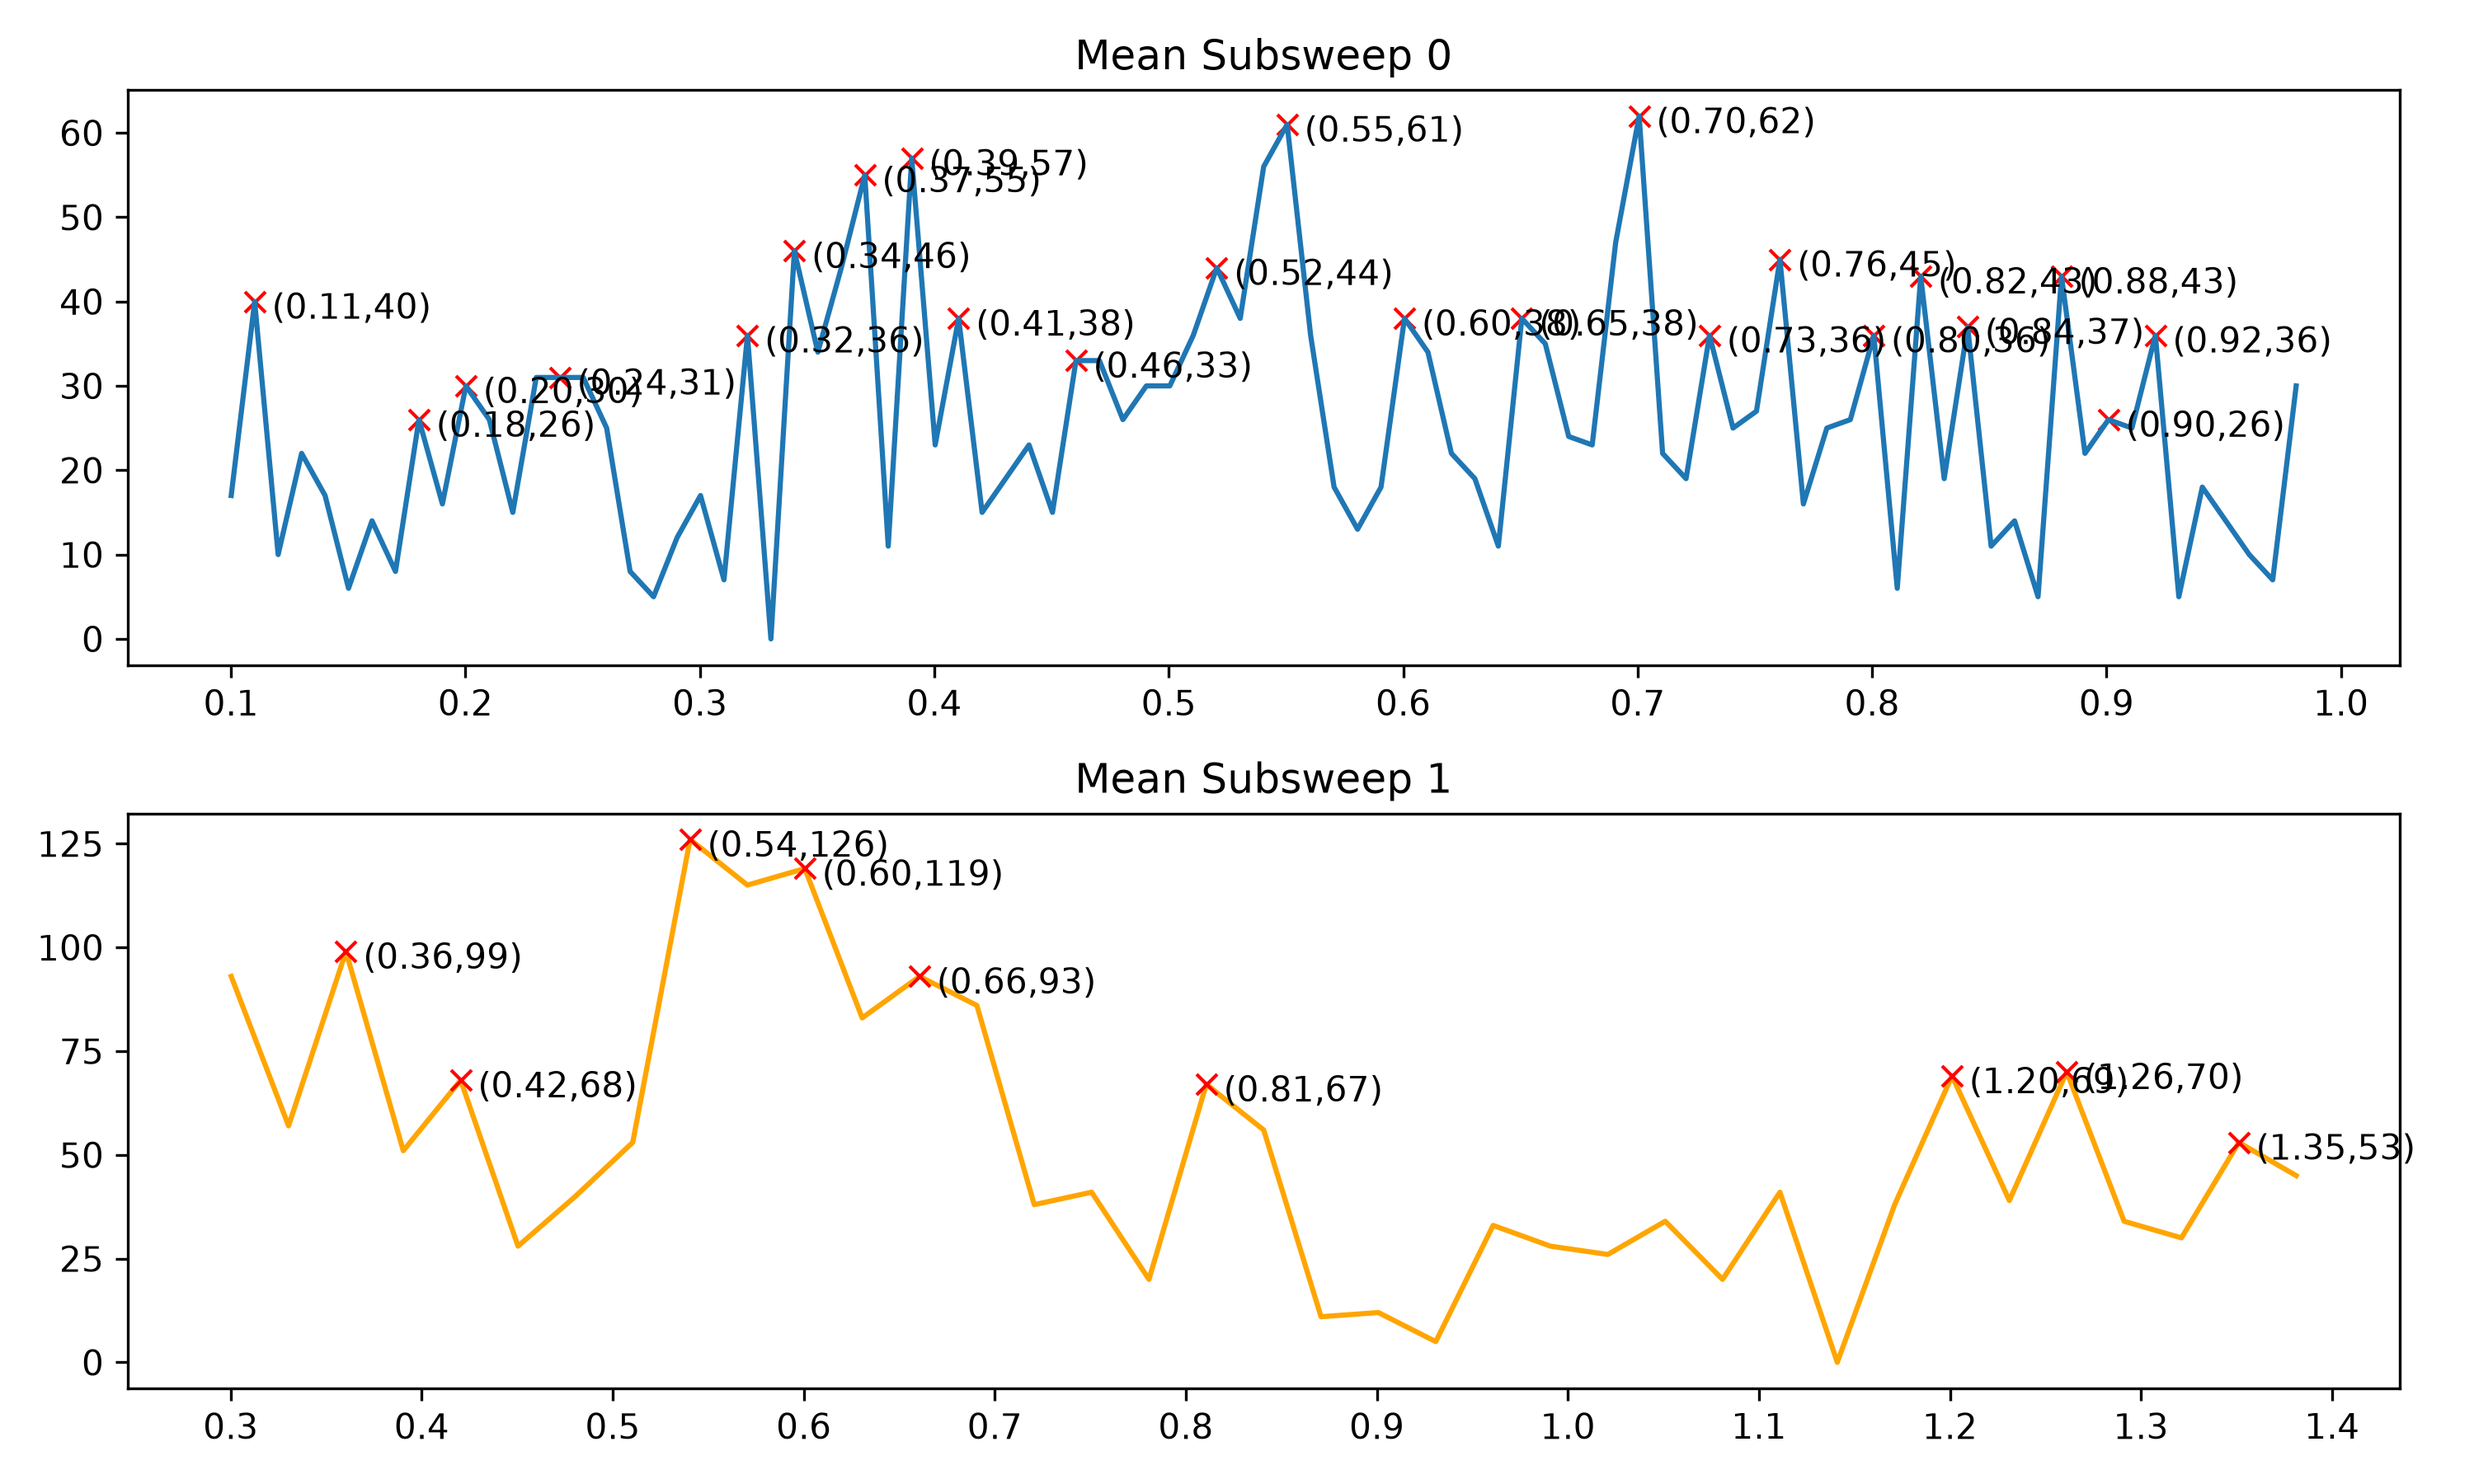
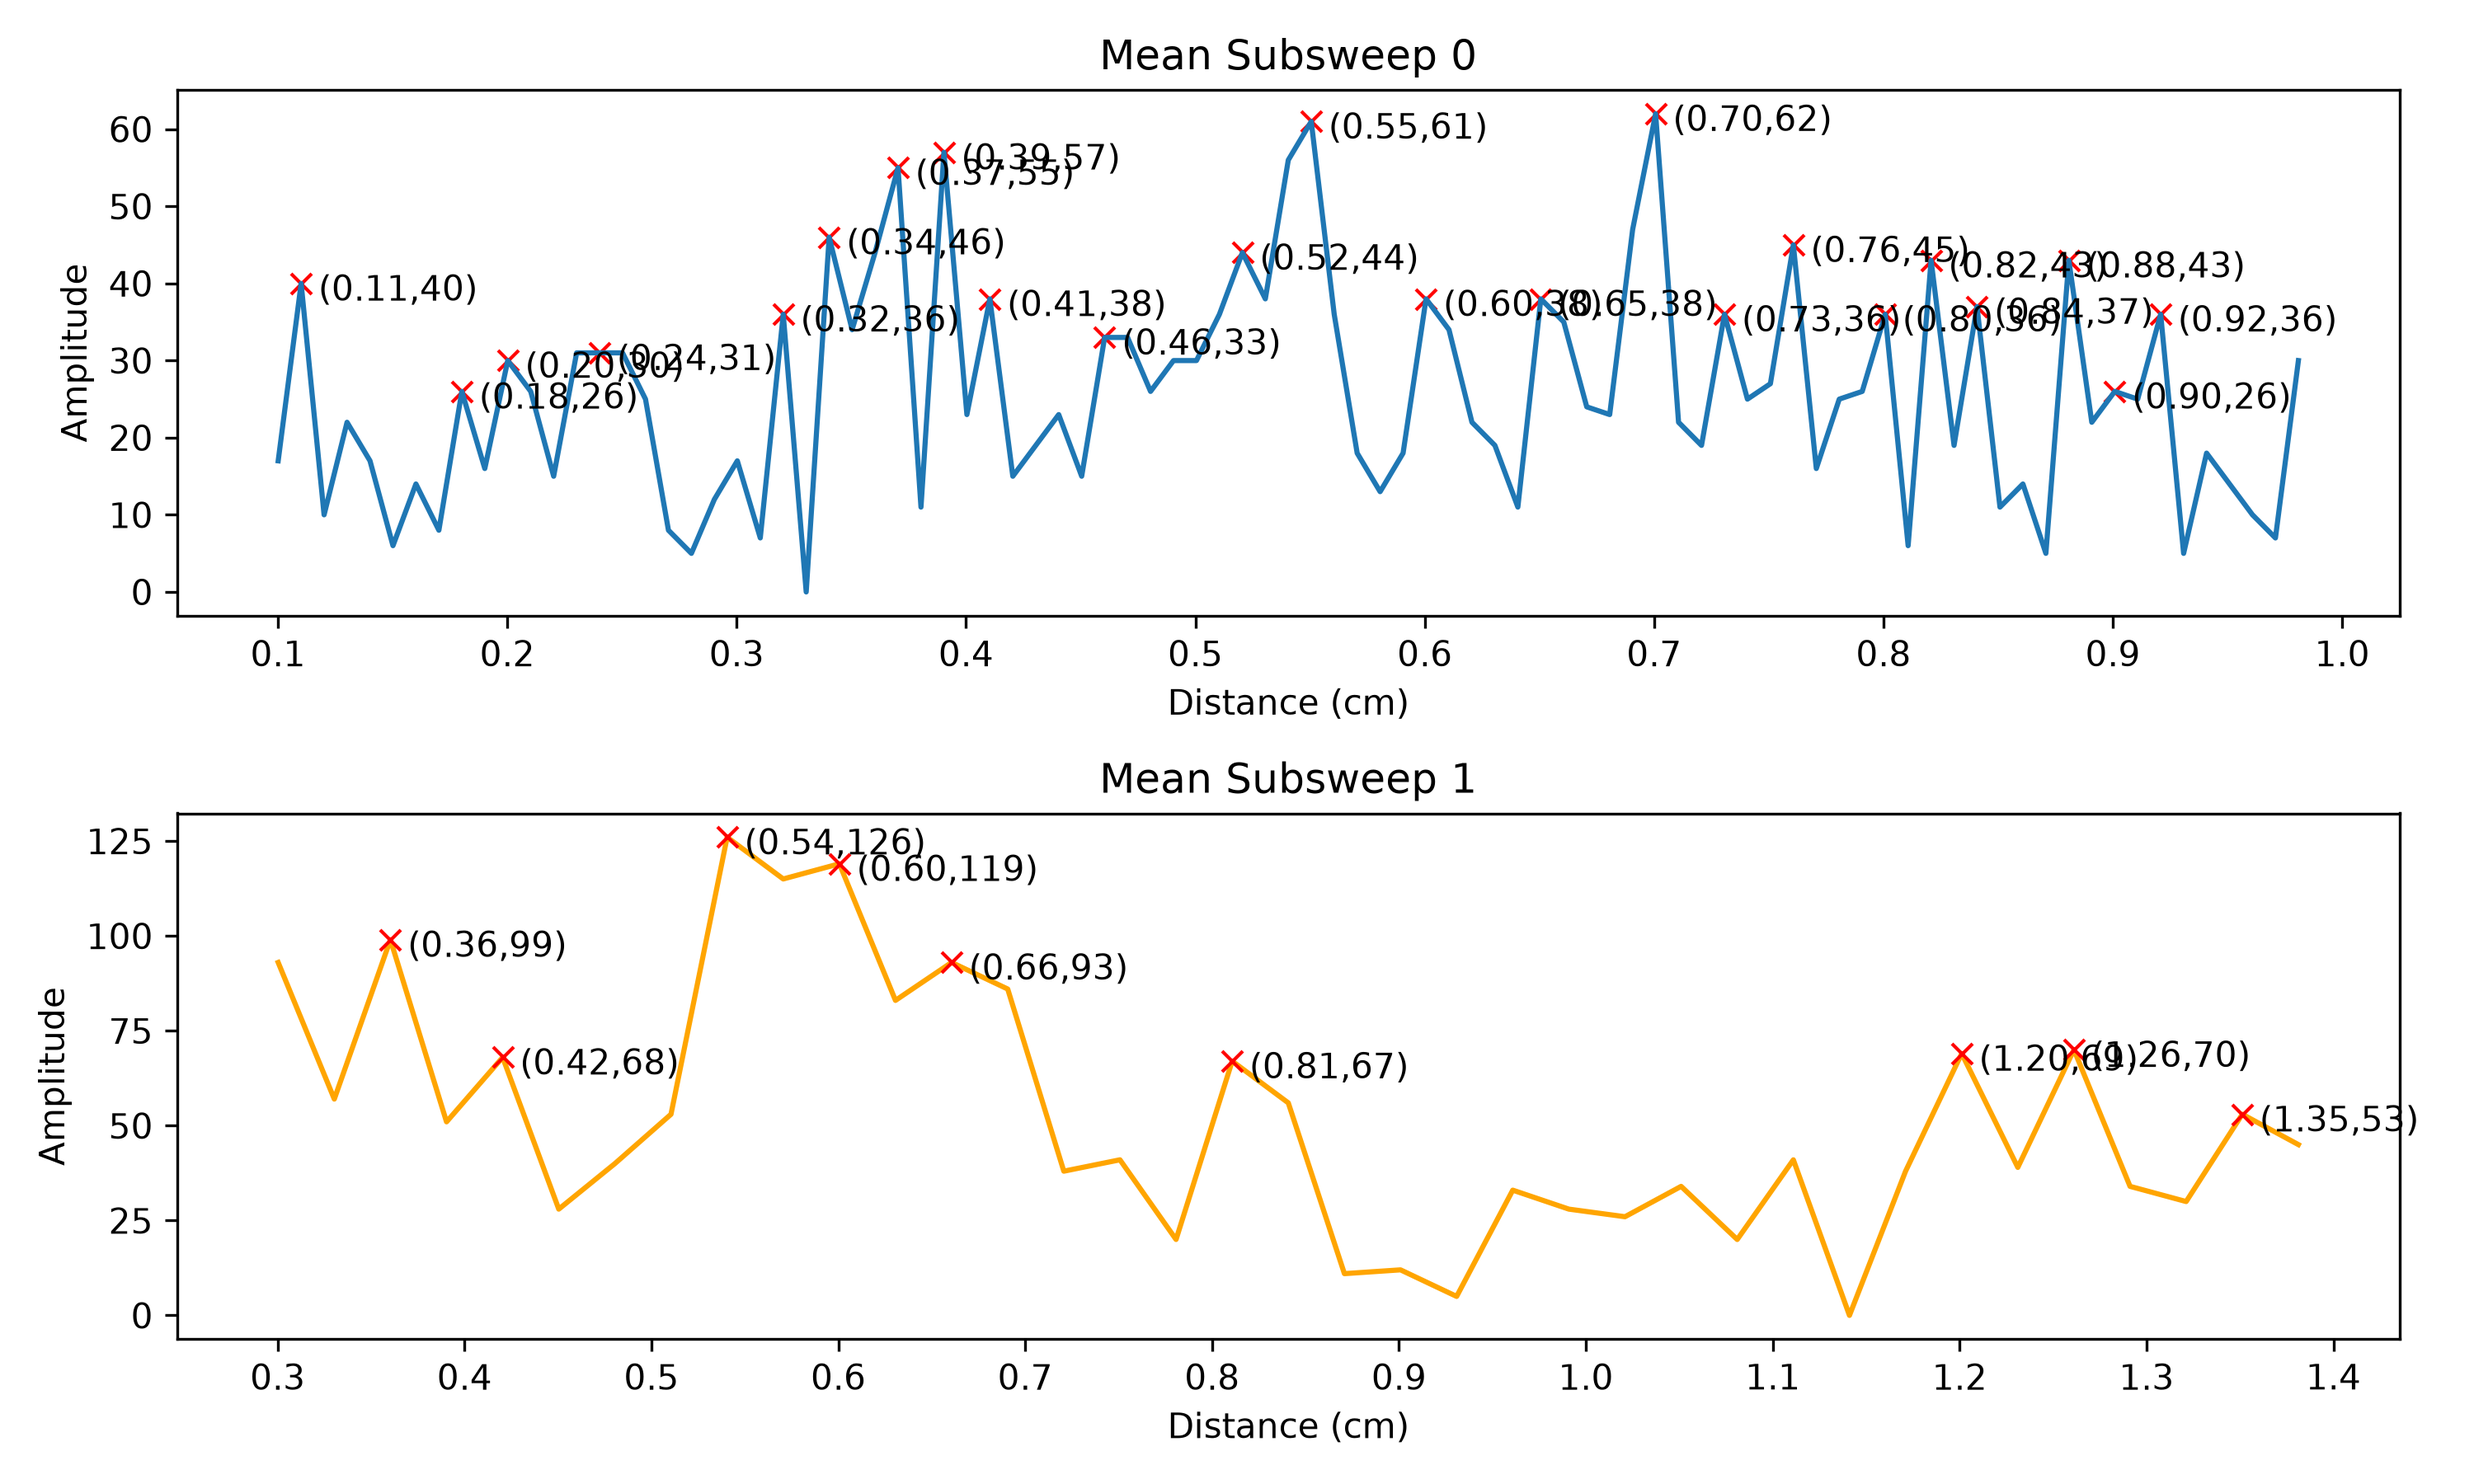
fixed axis labels

diff --git a/radar/data_plotting.py b/radar/data_plotting.py
@@ -132,11 +132,15 @@ def plotSweepsAvg(f):
     )
     axs[0].plot(x0Axis, y0Axis)
     axs[0].set_title("Mean Subsweep 0")
+    axs[0].set_xlabel("Distance (cm)")
+    axs[0].set_ylabel("Amplitude")
     maxAmplitude = np.max(y1Axis);
     axs[1].set_yticks(np.arange(0, maxAmplitude + 50, 25))
     axs[1].set_xticks(np.arange(0, 1.5, 0.1)) 
     axs[1].plot(x1Axis, y1Axis, color="orange")
     axs[1].set_title("Mean Subsweep 1")
+    axs[1].set_xlabel("Distance (cm)")
+    axs[1].set_ylabel("Amplitude")
     points = find_peaks(y1Axis, height = 50)
     for i in points[0]: 
         axs[1].plot(x1Axis[i], y1Axis[i], "x", color="red")
